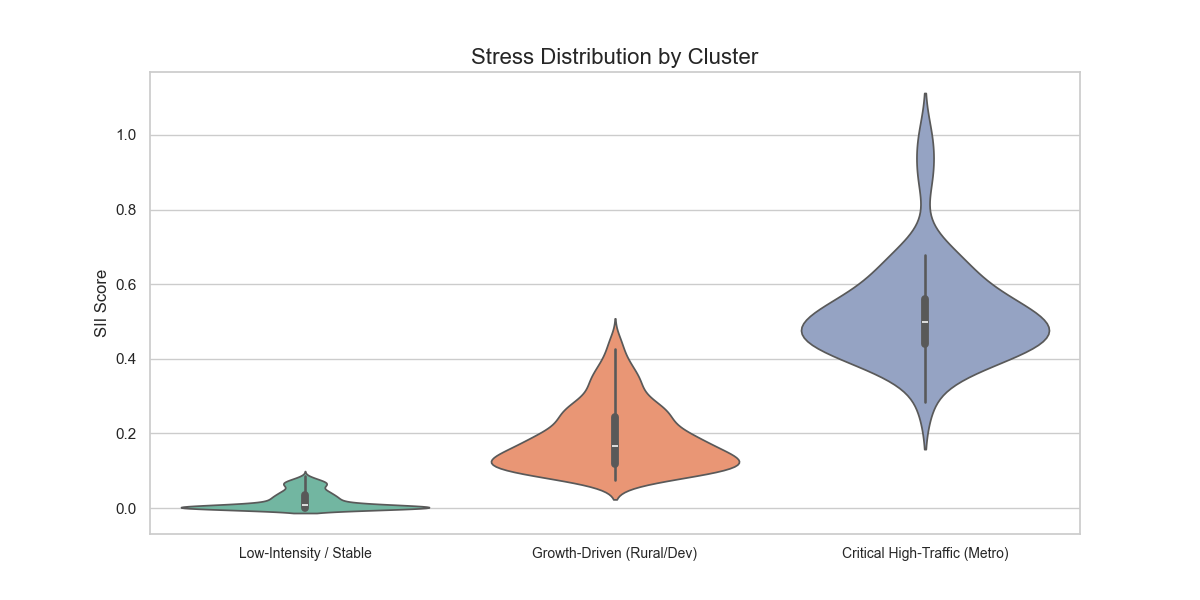
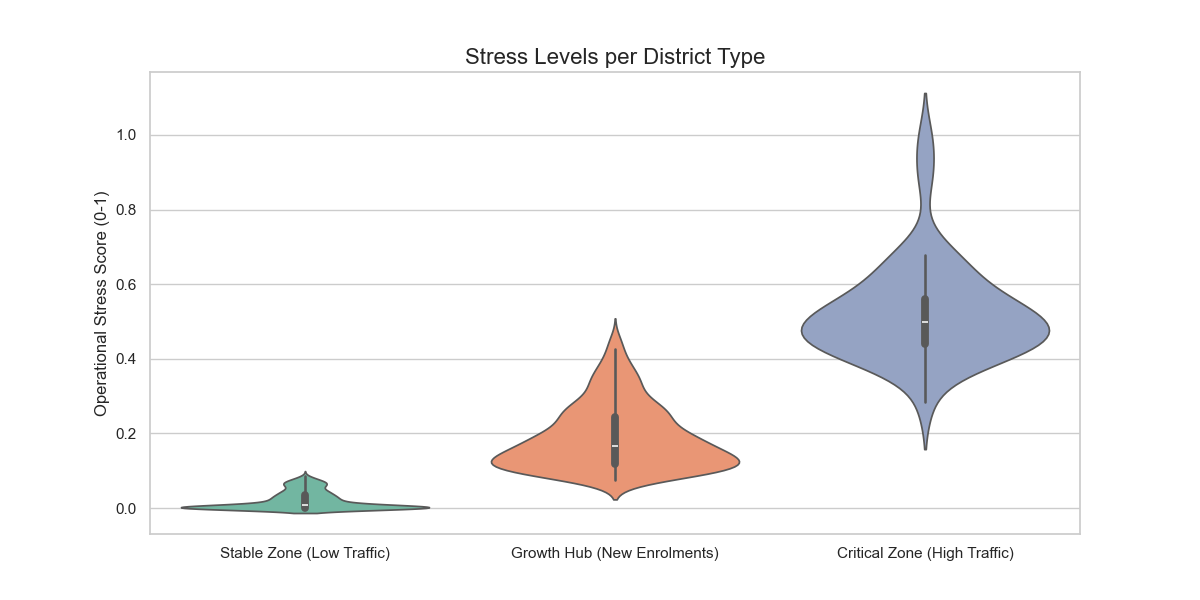
more

diff --git a/analysis.py b/analysis.py
@@ -5,53 +5,34 @@ import matplotlib.pyplot as plt
 import seaborn as sns
 from sklearn.cluster import KMeans
 
-# Set style for professional-looking plots
+# Set style for clean, professional plots
 sns.set_theme(style="whitegrid")
 
 # --- STEP 1: DATA INGESTION ---
-# We use this function to handle the "sharded" files (split into multiple parts)
 def load_sharded_dataset(folder_name):
-    """
-    Scans a folder, finds all CSV fragments, and merges them into one clean dataset.
-    """
     path = os.path.join(os.getcwd(), folder_name)
     all_files = glob.glob(os.path.join(path, "*.csv"))
-    
     if not all_files:
-        print(f"⚠  Warning: No data found in {folder_name}")
         return pd.DataFrame()
-    
-    print(f"   -> Loading {len(all_files)} file shards from {folder_name}...")
-    
-    # Read and combine
     df_list = [pd.read_csv(f, index_col=None, header=0) for f in all_files]
     return pd.concat(df_list, axis=0, ignore_index=True)
 
-print("\n--- 1. Starting Data Ingestion ---")
 df_bio = load_sharded_dataset('api_data_aadhar_biometric')
 df_demo = load_sharded_dataset('api_data_aadhar_demographic')
 df_enrol = load_sharded_dataset('api_data_aadhar_enrolment')
-print("--- Data Ingestion Complete ---\n")
 
-# --- STEP 2: DATA PREPROCESSING ---
-# Clean up column names to avoid errors with hidden spaces
+# --- STEP 2: PREPROCESSING ---
 df_bio.columns = df_bio.columns.str.strip()
 df_demo.columns = df_demo.columns.str.strip()
 df_enrol.columns = df_enrol.columns.str.strip()
 
-# Aggregate Data by District
-# We sum up the biometric updates (Bio), demographic updates (Demo), and new enrolments (Enrol)
-print("--- 2. Aggregating District-Level Metrics ---")
-
-# Biometric Updates (Maintenance Type A)
+# Aggregate Data
 df_bio['total_bio'] = df_bio.get('bio_age_5_17', 0) + df_bio.get('bio_age_17_', 0)
 bio_agg = df_bio.groupby(['state', 'district'])['total_bio'].sum().reset_index()
 
-# Demographic Updates (Maintenance Type B)
 df_demo['total_demo'] = df_demo.get('demo_age_5_17', 0) + df_demo.get('demo_age_17_', 0)
 demo_agg = df_demo.groupby(['state', 'district'])['total_demo'].sum().reset_index()
 
-# New Enrolments (Growth)
 df_enrol['total_enrol'] = (
     df_enrol.get('age_0_5', 0) + 
     df_enrol.get('age_5_17', 0) + 
@@ -59,129 +40,69 @@ df_enrol['total_enrol'] = (
 )
 enrol_agg = df_enrol.groupby(['state', 'district'])['total_enrol'].sum().reset_index()
 
-# --- STEP 3: CREATING THE MASTER DATASET ---
-# Merge all three lists into one master view of every district
+# --- STEP 3: MASTER DATASET ---
 master_df = enrol_agg.merge(bio_agg, on=['state', 'district'], how='outer').fillna(0)
 master_df = master_df.merge(demo_agg, on=['state', 'district'], how='outer').fillna(0)
-
-# Calculate Indicators
 master_df['total_updates'] = master_df['total_bio'] + master_df['total_demo']
 
-# Normalize values (0 to 1) so we can compare small districts vs. big cities fairly
+# Normalize
 master_df['norm_enrol'] = master_df['total_enrol'] / master_df['total_enrol'].max()
 master_df['norm_updates'] = master_df['total_updates'] / master_df['total_updates'].max()
 
-# Calculate Service Intensity Index (SII)
-# We give 60% weight to Updates because they are more operationally complex
+# SII Score (Stress Score)
 master_df['SII_Score'] = (0.4 * master_df['norm_enrol']) + (0.6 * master_df['norm_updates'])
 
-# --- STEP 4: AI SEGMENTATION (K-MEANS) ---
-print("--- 3. Running AI Clustering Model ---")
-
-# Prepare features for the AI
+# --- STEP 4: AI CLUSTERING ---
 features = master_df[['norm_enrol', 'norm_updates']].copy()
-
-# Run K-Means Clustering (Bucketing districts into 4 types)
 kmeans = KMeans(n_clusters=4, random_state=42, n_init=10)
 master_df['Cluster_ID'] = kmeans.fit_predict(features)
 
-# Dynamic Labeling: Name the clusters based on their actual data
+# Label Clusters with Simple Names
 cluster_stats = master_df.groupby('Cluster_ID')[['SII_Score', 'norm_enrol', 'norm_updates']].mean()
 sorted_clusters = cluster_stats.sort_values('SII_Score', ascending=False).index.tolist()
 
 cluster_names = {}
-# The cluster with the highest score is "Critical"
-cluster_names[sorted_clusters[0]] = 'Critical High-Traffic (Metro)'
-# The cluster with the lowest score is "Stable"
-cluster_names[sorted_clusters[-1]] = 'Low-Intensity / Stable'
+cluster_names[sorted_clusters[0]] = 'Critical Zone (High Traffic)'
+cluster_names[sorted_clusters[-1]] = 'Stable Zone (Low Traffic)'
 
-# The middle clusters are defined by whether they have more Enrolment or Updates
 for cluster_id in sorted_clusters[1:-1]:
     row = cluster_stats.loc[cluster_id]
     if row['norm_updates'] > row['norm_enrol']:
-        cluster_names[cluster_id] = 'Maintenance-Heavy (Urban)'
+        cluster_names[cluster_id] = 'Migration Hub (High Updates)'
     else:
-        cluster_names[cluster_id] = 'Growth-Driven (Rural/Dev)'
+        cluster_names[cluster_id] = 'Growth Hub (New Enrolments)'
 
 master_df['Cluster_Label'] = master_df['Cluster_ID'].map(cluster_names)
 
-# --- STEP 5: GENERATING INSIGHTS ---
-print("\n=== 🎯 AI ANALYSIS RESULTS ===")
-print("District Segmentation Breakdown:")
-print(master_df['Cluster_Label'].value_counts())
+# --- STEP 5: VISUALIZATION (ALL GRAPHS) ---
+print("Generating 5 Human-Readable Reports...")
 
-print("\n⚠ TOP 5 CRITICAL DISTRICTS (Require Immediate Infrastructure):")
-critical = master_df[master_df['Cluster_Label'] == 'Critical High-Traffic (Metro)']
-
-# FIX: We keep 'norm_enrol' and 'norm_updates' so we can use them for plotting later
-top_5 = critical[['state', 'district', 'SII_Score', 'total_enrol', 'total_updates', 'norm_enrol', 'norm_updates']] \
-          .sort_values('SII_Score', ascending=False).head(5)
-
-# We print only the relevant columns for the report (hiding the normalized ones for cleanliness)
-print(top_5[['state', 'district', 'SII_Score', 'total_enrol', 'total_updates']].to_string(index=False))
-
-# --- STEP 6: VISUALIZATION ---
-print("\n--- 4. Generating Visual Reports ---")
-
-# Plot 1: The Segmentation Map
+# 1. SEGMENTATION MAP (Main Result)
 plt.figure(figsize=(12, 8))
-sns.scatterplot(
-    data=master_df, 
-    x='norm_enrol', 
-    y='norm_updates', 
-    hue='Cluster_Label', 
-    style='Cluster_Label',
-    palette='Set1',
-    s=100, 
-    alpha=0.7
-)
+top_5 = master_df[master_df['Cluster_Label'] == 'Critical Zone (High Traffic)'].sort_values('SII_Score', ascending=False).head(5)
+sns.scatterplot(data=master_df, x='norm_enrol', y='norm_updates', hue='Cluster_Label', style='Cluster_Label', palette='Set1', s=100, alpha=0.7)
 
-# Annotate key cities (NOW THIS WILL WORK)
 for i in range(len(top_5)):
     row = top_5.iloc[i]
-    # We add a small offset (+0.01) so the text doesn't cover the dot
-    plt.text(row['norm_enrol']+0.01, row['norm_updates'], row['district'], fontsize=9, weight='bold')
+    plt.text(row['norm_enrol']+0.01, row['norm_updates'], row['district'], fontsize=10, weight='bold')
 
-plt.title('AI-Driven Service Segmentation', fontsize=14)
-plt.xlabel('Growth Demand (Normalized)', fontsize=12)
-plt.ylabel('Maintenance Demand (Normalized)', fontsize=12)
-plt.legend(title='District Persona')
-plt.grid(True, alpha=0.3)
+plt.title('District Classification: Where is the Infrastructure Need?', fontsize=16)
+plt.xlabel('New User Growth (Children Enrolments)', fontsize=12)
+plt.ylabel('Maintenance Load (Updates & Corrections)', fontsize=12)
+plt.legend(title='District Type')
 plt.savefig('ml_cluster_analysis_fixed.png')
-print("   -> Saved 'ml_cluster_analysis_fixed.png'")
+print("- Saved Map")
 
-# Plot 2: Correlation Heatmap
+# 2. DENSITY PLOT (Where is the crowd?)
 plt.figure(figsize=(10, 8))
-sns.heatmap(
-    master_df[['norm_enrol', 'norm_updates', 'SII_Score']].corr(), 
-    annot=True, 
-    cmap='coolwarm', 
-    fmt=".2f"
-)
-plt.title('Feature Correlation Matrix', fontsize=16)
-plt.savefig('stat_correlation.png')
-plt.close()
-print("   -> Saved 'stat_correlation.png'")
+sns.kdeplot(data=master_df, x='norm_enrol', y='norm_updates', fill=True, cmap='viridis', thresh=0.05)
+plt.title('Demand Hotspots: Where is the Pressure?', fontsize=16)
+plt.xlabel('New User Growth', fontsize=12)
+plt.ylabel('Maintenance Load', fontsize=12)
+plt.savefig('stat_density.png')
+print("- Saved Density Plot")
 
-# Plot 3: Violin Plot
-plt.figure(figsize=(12, 6))
-sns.violinplot(
-    data=master_df, 
-    x='Cluster_Label', 
-    y='SII_Score', 
-    hue='Cluster_Label',
-    palette='Set2',
-    legend=False
-)
-plt.title('Stress Distribution by Cluster', fontsize=16)
-plt.xlabel('')
-plt.ylabel('SII Score')
-plt.xticks(fontsize=10)
-plt.savefig('stat_violin.png')
-plt.close()
-print("   -> Saved 'stat_violin.png'")
-
-# Plot 4: Elbow Curve
+# 3. ELBOW CURVE (Accuracy Check)
 inertia = []
 K_range = range(1, 10)
 for k in K_range:
@@ -191,31 +112,28 @@ for k in K_range:
 
 plt.figure(figsize=(10, 6))
 plt.plot(K_range, inertia, marker='o', linestyle='--', color='purple', linewidth=3)
-plt.title('K-Means Elbow Optimization', fontsize=16)
-plt.xlabel('Number of Clusters (k)')
-plt.ylabel('Model Error')
-plt.annotate('Optimal k=3', xy=(3, inertia[2]), xytext=(4, inertia[2]+10),
-             arrowprops=dict(facecolor='black', shrink=0.05))
+plt.title('AI Accuracy Check (Optimal Grouping)', fontsize=16)
+plt.xlabel('Number of Groups', fontsize=12)
+plt.ylabel('Error Rate (Lower is Better)', fontsize=12)
+plt.annotate('Best Balance (k=3)', xy=(3, inertia[2]), xytext=(4, inertia[2]+10), arrowprops=dict(facecolor='black', shrink=0.05))
 plt.grid(True, alpha=0.3)
 plt.savefig('stat_elbow.png')
-plt.close()
-print("   -> Saved 'stat_elbow.png'")
+print("- Saved Accuracy Check")
 
-# Plot 5: Density Plot
+# 4. VIOLIN PLOT (Stress Distribution)
+plt.figure(figsize=(12, 6))
+sns.violinplot(data=master_df, x='Cluster_Label', y='SII_Score', hue='Cluster_Label', palette='Set2', legend=False)
+plt.title('Stress Levels per District Type', fontsize=16)
+plt.xlabel('')
+plt.ylabel('Operational Stress Score (0-1)')
+plt.savefig('stat_violin.png')
+print("- Saved Violin Plot")
+
+# 5. CORRELATION (Data Check)
 plt.figure(figsize=(10, 8))
-sns.kdeplot(
-    data=master_df,
-    x='norm_enrol',
-    y='norm_updates',
-    fill=True,
-    cmap='viridis',
-    thresh=0.05
-)
-plt.title('Geospatial Demand Density', fontsize=16)
-plt.xlabel('Enrolment Intensity')
-plt.ylabel('Update Intensity')
-plt.savefig('stat_density.png')
-plt.close()
-print("   -> Saved 'stat_density.png'")
+sns.heatmap(master_df[['norm_enrol', 'norm_updates', 'SII_Score']].corr(), annot=True, cmap='coolwarm', fmt=".2f")
+plt.title('Data Relationship Check', fontsize=16)
+plt.savefig('stat_correlation.png')
+print("- Saved Data Check")
 
-print("\n✅ Analysis Complete. All reports generated.")
+print("Done! All 5 images are ready.")
